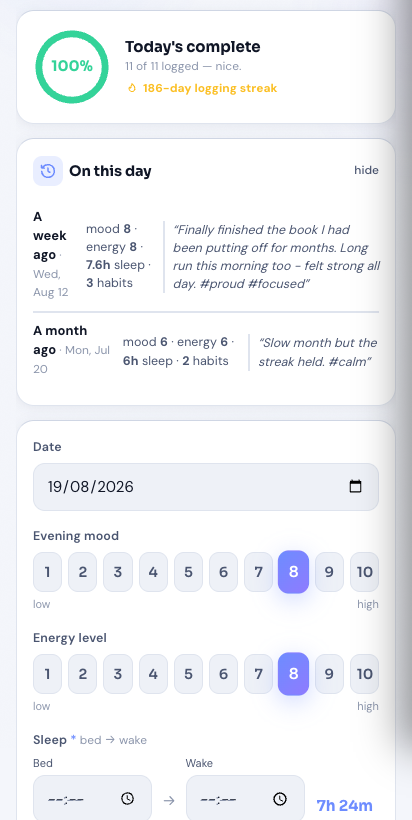
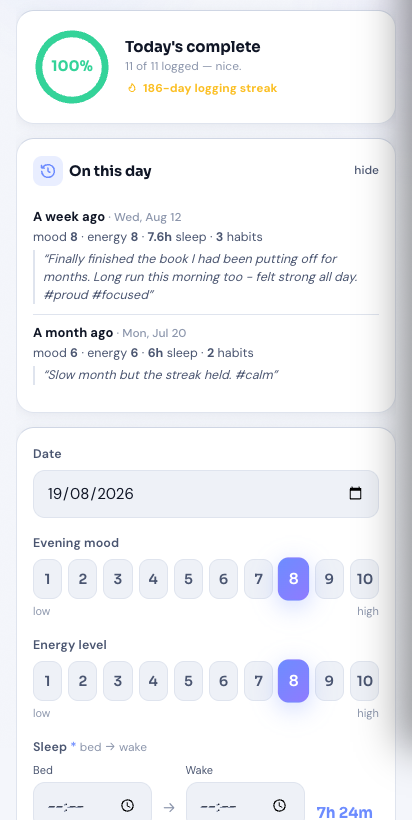
v126: fix On-this-day layout (CSS class collision), move Year in Pixels last, make hide reversible
- .tb-row was already the timebox row class (styles.css:592, display:flex), so the
  throwback rows inherited its flex layout and squashed into three columns. Renamed
  all throwback classes to otd-* and set an explicit display:block.
- Year in Pixels moved to the end of Stats > Overview - it's a look-back widget, so it
  belongs after the numbers, not before them.
- Added Settings > "Log screen widgets" with toggles for the today ring, On this day,
  the mood grid and haptics. The hide links previously set a flag and toasted
  "re-enable in Settings" with no such setting existing - hiding was a one-way door.
- Regenerated the 8 store screenshots.

diff --git a/app.js b/app.js
@@ -5,7 +5,7 @@
 
 'use strict';
 
-const APP_VERSION = 'v124';   // shown in More ▸ About so you can confirm the build on each device
+const APP_VERSION = 'v126';   // shown in More ▸ About so you can confirm the build on each device
 
 /* Corruption-proof localStorage reads: one interrupted write (force-kill mid-save is a
    real Android failure mode) must degrade to defaults, never white-screen the boot. */
@@ -752,22 +752,22 @@ function throwbackHTML() {
     const doneN = en.habits ? Object.keys(en.habits).filter(k => en.habits[k] === true).length : 0;
     if (doneN) bits.push(`<b>${doneN}</b> habit${doneN > 1 ? 's' : ''}`);
     const jr = (en.journal || '').trim().replace(/\s+/g, ' ');
-    const quote = jr ? `<div class="tb-quote">“${escapeHtml(jr.slice(0, 140))}${jr.length > 140 ? '…' : ''}”</div>` : '';
-    return `<div class="tb-row" data-throwback="${m.d}">
-      <div class="tb-when">${m.label}<span class="hint"> · ${prettyDate(m.d)}</span></div>
-      ${bits.length ? `<div class="tb-stats">${bits.join(' · ')}</div>` : ''}
+    const quote = jr ? `<div class="otd-quote">“${escapeHtml(jr.slice(0, 140))}${jr.length > 140 ? '…' : ''}”</div>` : '';
+    return `<div class="otd-row" data-throwback="${m.d}">
+      <div class="otd-when">${m.label}<span class="hint"> · ${prettyDate(m.d)}</span></div>
+      ${bits.length ? `<div class="otd-stats">${bits.join(' · ')}</div>` : ''}
       ${quote}
     </div>`;
   }).join('');
-  return `<div class="card tb-card">
+  return `<div class="card otd-card">
     <h2 class="h2-icon">${hicon('history')}<span>On this day</span>
-      <span class="hint" style="margin-left:auto"><a href="#" id="tb-hide">hide</a></span></h2>
+      <span class="hint" style="margin-left:auto"><a href="#" id="otd-hide">hide</a></span></h2>
     ${rows}
   </div>`;
 }
 document.addEventListener('click', (ev) => {
-  if (ev.target && ev.target.id === 'tb-hide') { ev.preventDefault();
-    localStorage.setItem('dp.throwbackOff', '1'); toast('“On this day” hidden — re-enable in Settings'); renderToday(); return; }
+  if (ev.target && ev.target.id === 'otd-hide') { ev.preventDefault();
+    localStorage.setItem('dp.throwbackOff', '1'); toast('Hidden — Settings ▸ Log screen widgets to bring it back'); renderToday(); return; }
   const tb = ev.target.closest && ev.target.closest('[data-throwback]');
   if (tb) { logDate = tb.dataset.throwback; loadDraft(); renderToday(); toast('Opened ' + prettyDate(logDate)); }
 });
@@ -826,7 +826,7 @@ function moodMeterHTML() {
 }
 document.addEventListener('click', (ev) => {
   if (ev.target && ev.target.id === 'mm-hide') { ev.preventDefault();
-    localStorage.setItem('dp.moodMeterOff', '1'); toast('Mood grid hidden — re-enable in Settings'); renderToday(); return; }
+    localStorage.setItem('dp.moodMeterOff', '1'); toast('Hidden — Settings ▸ Log screen widgets to bring it back'); renderToday(); return; }
   const cell = ev.target.closest && ev.target.closest('[data-mm]');
   if (cell) {
     const [mv, evv] = cell.dataset.mm.split(',').map(Number);
@@ -2775,7 +2775,6 @@ function renderDash() {
         <div class="hint">Log about a week of days and your personal patterns appear here — your sleep sweet spot, which habits actually lift your mood, your peak focus hours. Computed on your phone, never uploaded.</div></div>`;
 
   const overviewHTML = `
-    ${yearPixelsHTML()}
     <div class="card"><div class="stat-grid">
       <div class="stat"><div class="v">${loggedStreak()}</div><div class="l">🔥 day streak</div></div>
       <div class="stat"><div class="v">${longestLoggedStreak()}</div><div class="l">best streak</div></div>
@@ -2813,7 +2812,9 @@ function renderDash() {
     ${insights.length ? `<div class="card"><h2>💡 Insights</h2>
       ${insights.map(t=>`<div style="font-size:13.5px;color:var(--text-dim);padding:7px 0;border-bottom:1px solid var(--border);line-height:1.5">${t}</div>`).join('')}</div>` : ''}
 
-    <div class="card"><h2>🕸 Connections <span class="hint">your journal graph</span></h2><div id="graph-wrap">${graphSVG()}</div></div>`;
+    <div class="card"><h2>🕸 Connections <span class="hint">your journal graph</span></h2><div id="graph-wrap">${graphSVG()}</div></div>
+
+    ${yearPixelsHTML()}`;
 
   const timeHTML = `
     <div class="card"><div class="stat-grid">
@@ -4097,6 +4098,22 @@ function renderSettings() {
       ${row('screentime', '📱 Screen time', 'daily phone usage')}
       <div class="hint" style="margin-top:8px">Everything stays on your phone. Sensor data needs the Play-update version of the app; these switches control what it's allowed to collect.</div>
     </div>`; })()}
+    ${(() => {
+      // Every widget with a "hide" link must be re-enableable here, or hiding it is a
+      // one-way door. Stored flags are inverted (dp.*Off), so the switch shows !flag.
+      const row = (flag, label, sub) => { const on = localStorage.getItem(flag) !== '1';
+        return `<div class="at-row">
+          <div class="at-txt"><div class="at-lbl">${label}</div>${sub ? `<div class="at-sub">${sub}</div>` : ''}</div>
+          <button class="at-tog ${on ? 'on' : ''}" data-widget-toggle="${flag}"><span class="at-knob"></span></button>
+        </div>`; };
+      return `<div class="card">
+        <h2>🎛 Log screen widgets <span class="hint">show or hide</span></h2>
+        ${row('dp.ringOff', '🎯 Today ring', "how much of today you've logged")}
+        ${row('dp.throwbackOff', '🕰 On this day', 'your entry from a week / month / year ago')}
+        ${row('dp.moodMeterOff', '🎨 Mood grid', 'set mood and energy with one tap')}
+        ${row('dp.hapticsOff', '📳 Haptic buzz', 'a short vibration when you complete something')}
+        <div class="hint" style="margin-top:8px">Tapping <b>hide</b> on any of these cards switches it off here — turn it back on any time.</div>
+      </div>`; })()}
     <div class="card">
       <h2>⏰ Reminders <span class="hint">${DB.reminders().length} set</span></h2>
       ${DB.reminders().length ? DB.reminders().map(r => `
@@ -4249,6 +4266,14 @@ document.addEventListener('click', async (ev) => {
     return;
   }
   if (ev.target.closest('#open-report')) { downloadReport(); return; }
+  const wt = ev.target.closest('[data-widget-toggle]');
+  if (wt) { const flag = wt.dataset.widgetToggle;
+    const wasOn = localStorage.getItem(flag) !== '1';
+    if (wasOn) localStorage.setItem(flag, '1'); else localStorage.removeItem(flag);
+    wt.classList.toggle('on', !wasOn);
+    if (flag === 'dp.hapticsOff' && wasOn === false) buzz(18);
+    toast(wasOn ? 'Hidden' : 'Switched back on');
+    return; }
   const att = ev.target.closest('[data-at-toggle]');
   if (att) { const k = att.dataset.atToggle; const at = autoTrackCfg();
     saveAutoTrack({ [k]: !at[k] }); renderSettings();

diff --git a/styles.css b/styles.css
@@ -1051,14 +1051,15 @@ svg.chart, .chart-bar, #graph-svg { max-width: 100%; display: block; }
   background: linear-gradient(90deg, var(--accent), var(--good)); transition: width .35s ease; }
 
 /* ---- Throwback / "On this day" ---- */
-.tb-card h2 { display: flex; align-items: center; gap: 6px; }
-.tb-card h2 .hint a { color: var(--text-dim); text-decoration: none; font-weight: 500; }
-.tb-row { padding: 9px 0; border-top: 1px solid var(--border); cursor: pointer; }
-.tb-row:first-of-type { border-top: 0; }
-.tb-row:active { opacity: .6; }
-.tb-when { font-size: 13px; font-weight: 650; color: var(--text); }
-.tb-stats { font-size: 12.5px; color: var(--text-dim); margin-top: 2px; }
-.tb-quote { font-size: 12.5px; color: var(--text-dim); margin-top: 4px; font-style: italic;
+.otd-card h2 { display: flex; align-items: center; gap: 6px; }
+.otd-card h2 .hint a { color: var(--text-dim); text-decoration: none; font-weight: 500; }
+.otd-row { display: block; padding: 10px 0; border-top: 1px solid var(--border); cursor: pointer; }
+.otd-row:first-of-type { border-top: 0; }
+.otd-row:active { opacity: .6; }
+.otd-when { font-size: 13px; font-weight: 700; color: var(--text); line-height: 1.3; }
+.otd-when .hint { font-weight: 500; }
+.otd-stats { font-size: 12.5px; color: var(--text-dim); margin-top: 2px; }
+.otd-quote { font-size: 12.5px; color: var(--text-dim); margin-top: 4px; font-style: italic;
   border-left: 2px solid var(--border); padding-left: 8px; }
 
 /* ---- Mood Meter: pleasantness x energy quadrants (How We Feel's model) ---- */

diff --git a/index.html b/index.html
@@ -15,7 +15,7 @@
   <link rel="preconnect" href="https://fonts.googleapis.com">
   <link rel="preconnect" href="https://fonts.gstatic.com" crossorigin>
   <link href="https://fonts.googleapis.com/css2?family=DM+Sans:opsz,wght@9..40,400;9..40,500;9..40,600;9..40,700&family=Sora:wght@600;700;800&display=swap" rel="stylesheet">
-  <link rel="stylesheet" href="styles.css?v=124">
+  <link rel="stylesheet" href="styles.css?v=126">
   <script src="libs/jspdf.min.js" defer></script>
 </head>
 <body>
@@ -113,8 +113,8 @@
   <div id="print-report"></div>
 
   <div class="toast" id="toast"></div>
-  <script src="workout-anims.js?v=124"></script>
-  <script src="workout-plan.js?v=124"></script>
-  <script src="app.js?v=124"></script>
+  <script src="workout-anims.js?v=126"></script>
+  <script src="workout-plan.js?v=126"></script>
+  <script src="app.js?v=126"></script>
 </body>
 </html>

diff --git a/sw.js b/sw.js
@@ -1,7 +1,7 @@
 /* Daylog service worker
    Strategy: NETWORK-FIRST for the app's own files (so you ALWAYS get the latest
    when online), with cache fallback so it still works fully offline. */
-const CACHE = 'daily-pulse-v124';
+const CACHE = 'daily-pulse-v126';
 const ASSETS = [
   './', './index.html', './styles.css', './app.js',
   './workout-anims.js', './workout-plan.js',

diff --git a/LLM wiki from karpathy/log.md b/LLM wiki from karpathy/log.md
@@ -1,3 +1,33 @@
+## 2026-08-19 (v125/v126) — CSS class collision, Year in Pixels moved, hide is now reversible
+
+**Bug: "On this day" rows were squashed into three cramped columns.** Cause was a **CSS class
+collision** — `.tb-row` was already defined at styles.css:592 for the **timebox** feature with
+`display:flex; align-items:center; gap:11px`. My throwback markup reused `tb-*` and silently
+inherited that flex row, so when / stats / quote laid out side-by-side instead of stacking.
+Renamed every throwback class to `otd-*` ("on this day") and made `.otd-row` an explicit
+`display:block`. Timebox's `.tb-row` is untouched.
+
+**Rule: this codebase has one flat global stylesheet with ~1100 lines and no scoping.
+Before naming a new CSS class, `grep -n "\.your-class" styles.css`.** A two-letter prefix
+is not unique enough — `tb` already meant timebox.
+
+**Year in Pixels moved to the END of Stats ▸ Overview** (Kishore's call). It was the first
+card; it's a look-back widget, so it belongs after the numbers and insights, not before them.
+
+**Hide was a one-way door.** The `hide` links on "On this day" and the mood grid set
+`dp.throwbackOff` / `dp.moodMeterOff` and toasted "re-enable in Settings" — but no such
+Settings control existed. Added a **🎛 Log screen widgets** card in Settings with four
+toggles (`dp.ringOff`, `dp.throwbackOff`, `dp.moodMeterOff`, `dp.hapticsOff`), reusing the
+existing `.at-row` / `.at-tog` markup and a new `data-widget-toggle` handler. Flags are
+inverted (`*Off`), so the switch renders `!flag`.
+
+**Rule: never ship a hide/dismiss affordance without the control that undoes it, and don't
+write a toast that names a setting that doesn't exist.**
+
+**Verified:** all four hide → Settings → restore round-trips, `display:block` on `.otd-row`
+with stats below when (not beside), 55/55 tests, all 17 screens error-free, screenshots
+regenerated.
+
 ## 2026-08-19 (late) — Pages deploys fixed properly: it was a stuck deployment LOCK
 
 Supersedes the "Pages builds are flaky, just re-queue" note below. Re-queueing was treating
